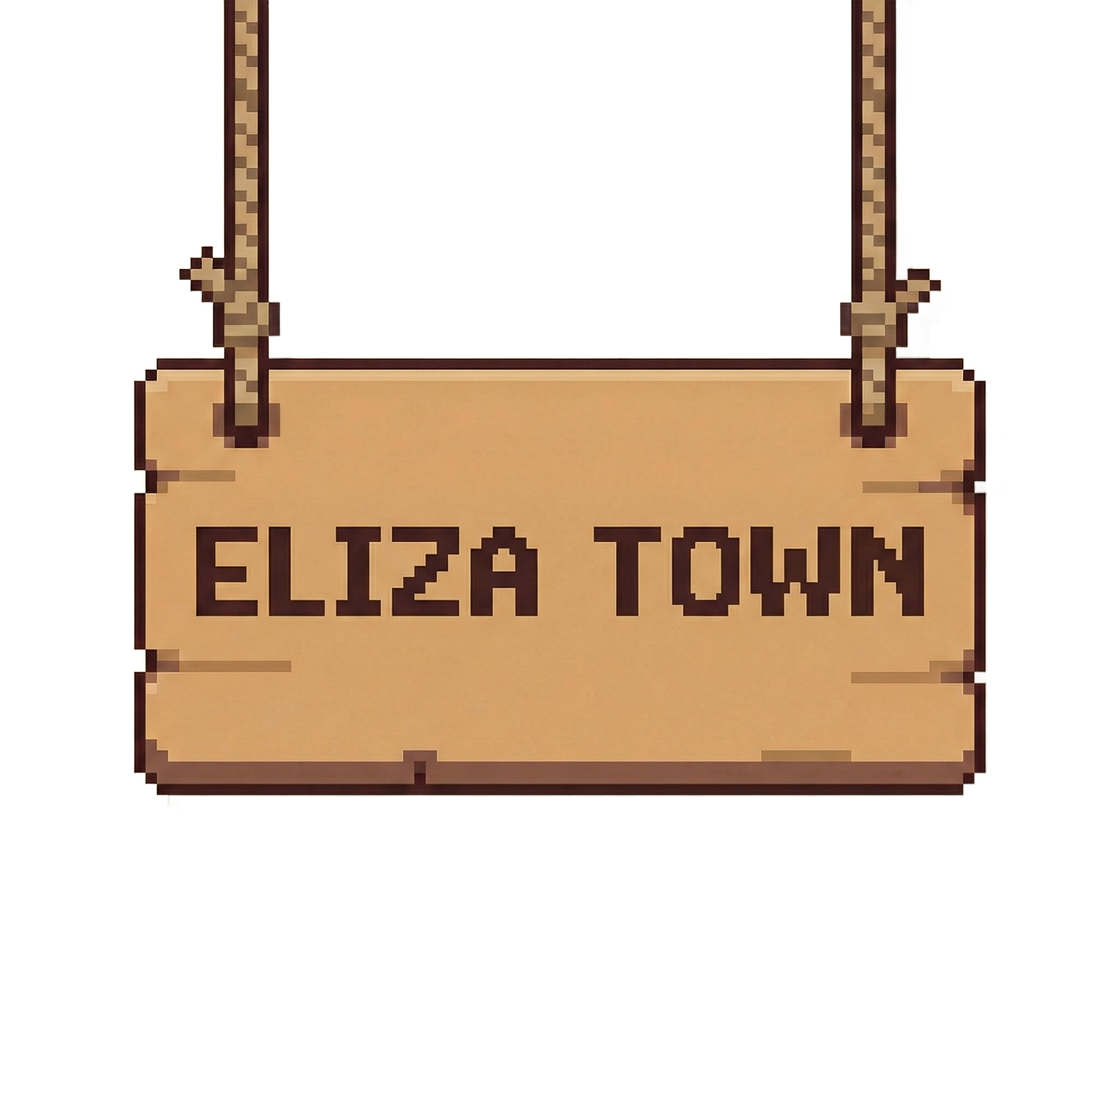
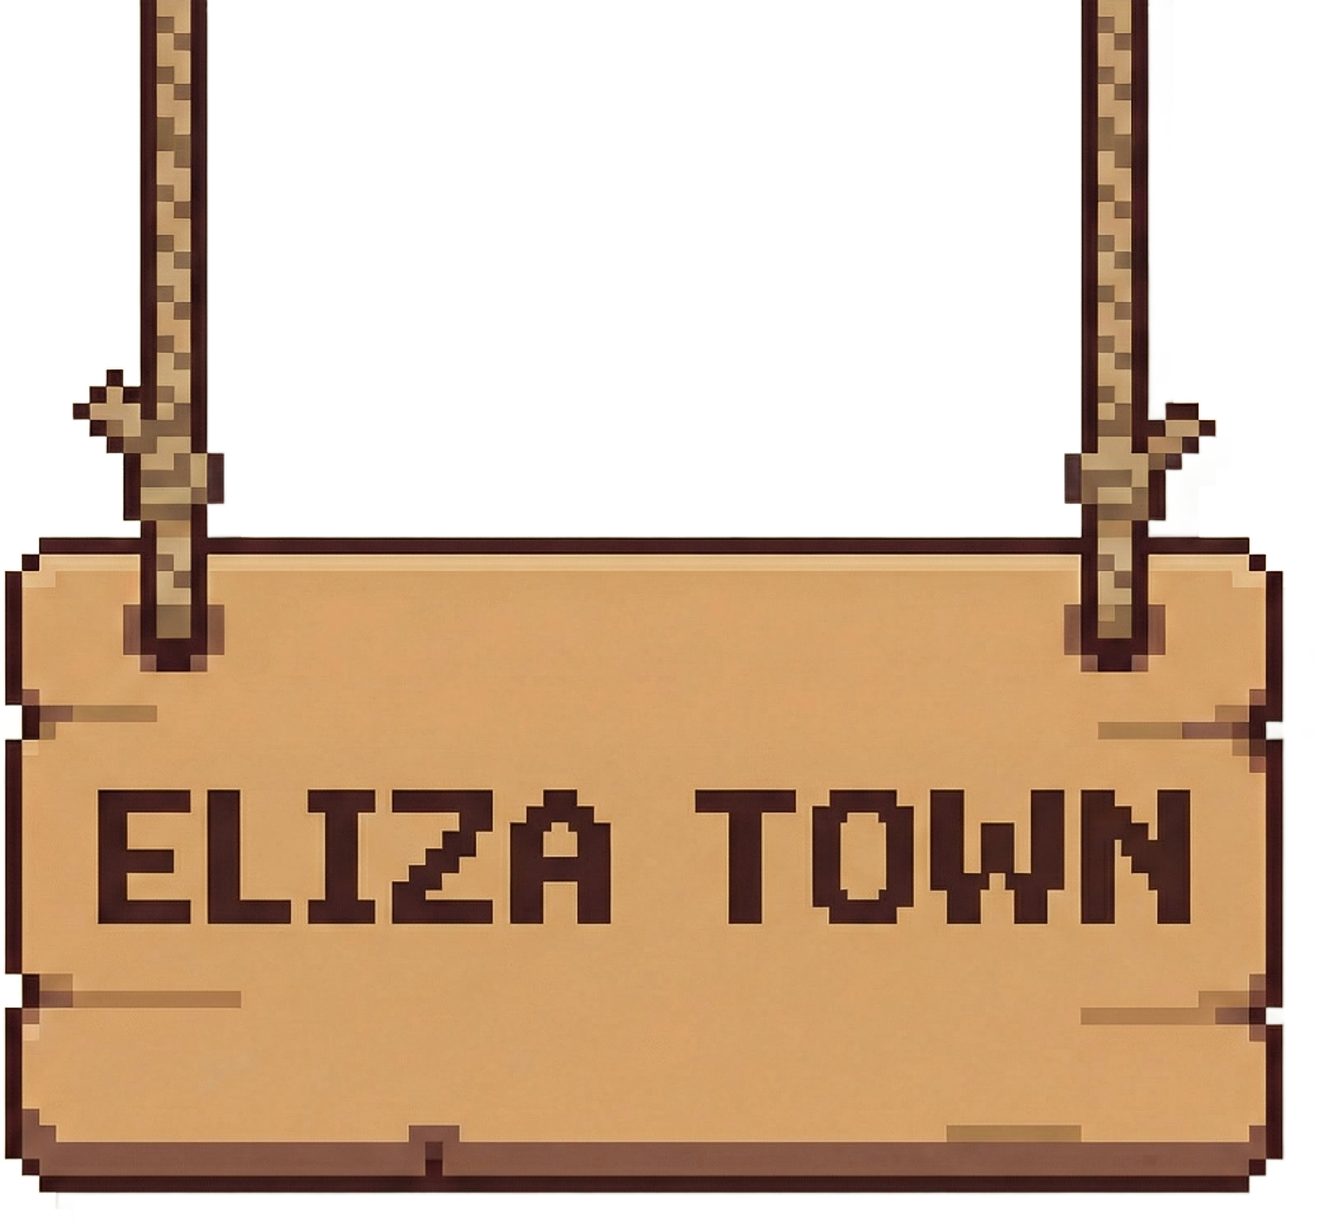
refactor(ui): refine Eliza Town map editor layout, styling, and scaling - Update 'StardewFrame' to support 9-slice rendering and full-height content. - Unify Header and Footer toolbar styling with 'inset' wooden slot aesthetic. - Increase Header height and adjust layout container sizes. - Fix Object

diff --git a/src/components/MapEditor.tsx b/src/components/MapEditor.tsx
@@ -2386,20 +2386,22 @@ const MapEditor = () => {
   return (
     <div className="w-screen h-screen overflow-hidden bg-[#fdf6d8] flex items-center justify-center font-display">
       <div 
-        className="relative select-none w-full h-full p-6 transition-all duration-300" // Made full width/height with padding
+        className="relative select-none p-4 transition-all duration-300 origin-center"
         style={{
+          transform: 'scale(1.3)', // Scale up entire UI by 30% for thicker borders
           display: 'grid',
           // Flexible columns: Sidebars take content width, Main takes remaining
           gridTemplateColumns: 'min-content 1fr min-content', 
-          // Flexible rows: Header/Footer take content height, Main takes remaining
-          gridTemplateRows: 'auto 1fr auto',
+          gridTemplateRows: 'auto 1fr auto', // Header takes content, Main fills, Footer takes content
           gridTemplateAreas: `
-            "sidebar-left header header"
+            ". header header"
             "sidebar-left main sidebar-right"
             "sidebar-left footer sidebar-right"
           `,
-          gap: '12px', // Kept gap for separation
+          gap: '10px', // Slightly reduced gap for scaled view
           imageRendering: 'pixelated',
+          width: '77%', // 100% / 1.3 to fit within viewport after scaling
+          height: '77%',
         }}
       >
         {/* --------------------------------------------------------------------------
@@ -2407,14 +2409,16 @@ const MapEditor = () => {
             Area: sidebar-left
             Responsive Width: min-content (based on children)
            -------------------------------------------------------------------------- */}
-        <div style={{ gridArea: 'sidebar-left' }} className="relative h-full pt-8 min-w-[160px]">
-            {/* Hanging Sign - Positioned absolutely on top of the frame */}
-            <div className="absolute top-0 left-1/2 -translate-x-1/2 z-20 pointer-events-none" style={{ marginTop: '-8px' }}>
-                 <HangingSign text="TILES" scale={0.9} />
+        <div style={{ gridArea: 'sidebar-left' }} className="relative h-full pt-10 min-w-[260px]">
+            {/* Hanging Sign - Positioned at screen edge */}
+            {/* Hanging Sign - Positioned at screen edge */}
+            <div className="fixed top-0 left-[120px] z-30 pointer-events-none" style={{ transform: 'translateX(-50%)' }}>
+                 <HangingSign scale={0.9} />
             </div>
             
-            <StardewFrame className="w-full h-full flex flex-col pt-8 pb-4 px-2" style={{ borderWidth: '12px' }}>
-               <div className="flex-1 min-h-0 overflow-y-auto pr-1 custom-scrollbar space-y-2">
+            <StardewFrame className="w-full h-full flex flex-col pt-8 pb-3 px-3" >
+               <div className="flex-1 min-h-0 w-full h-full overflow-hidden rounded-sm relative"> {/* overflow-hidden to clip content to frame */}
+                 <div className="absolute inset-0 overflow-y-auto overflow-x-hidden custom-scrollbar px-2 py-1"> {/* Scroll container with padding */}
                   {/* Tileset Selector */}
                   <div className="mb-2">
                     <select
@@ -2438,7 +2442,7 @@ const MapEditor = () => {
                              {stampCaptureMode ? 'Creating...' : 'New Stamp'}
                            </button>
                         </div>
-                        <div className="grid grid-cols-2 gap-1">
+                        <div className="grid grid-cols-3 gap-1">
                          {tilesetStampsForSet.map(stamp => (
                             <button 
                               key={stamp.id} 
@@ -2460,21 +2464,25 @@ const MapEditor = () => {
                              {objectCaptureMode ? 'Creating...' : 'New Object'}
                            </button>
                         </div>
-                         <div className="grid grid-cols-2 gap-2">
+                         <div className="grid grid-cols-3 gap-2">
                             {tilesetObjectsForSet.map(obj => {
                                const preview = getObjectPreviewData(obj);
                                return (
                                  <div key={obj.id} 
                                       onClick={() => selectObjectId(obj.id)}
-                                      className={`aspect-square bg-[#3b2a21] rounded border-2 relative cursor-pointer group ${activeObjectId === obj.id ? 'border-[#ffd93d] shadow-[0_0_8px_#ffd93d]' : 'border-[#5a4030] hover:border-[#8b6b4a]'}`}
+                                      className={`aspect-square bg-[#3b2a21] rounded border-2 relative cursor-pointer group flex items-center justify-center overflow-hidden ${activeObjectId === obj.id ? 'border-[#ffd93d] shadow-[0_0_8px_#ffd93d]' : 'border-[#5a4030] hover:border-[#8b6b4a]'}`}
                                  >
                                      <div 
-                                        className="absolute inset-2 bg-no-repeat bg-center"
+                                        className="bg-no-repeat"
                                         style={{
+                                            width: preview.width,
+                                            height: preview.height,
                                             backgroundImage: `url(${preview.imageUrl})`,
                                             backgroundPosition: preview.backgroundPosition,
                                             backgroundSize: preview.backgroundSize,
-                                            transform: 'scale(0.8)'
+                                            transform: `scale(${Math.min(1, 56 / Math.max(preview.width, preview.height))})`, // Scale to fit 56px box (better visibility)
+                                            transformOrigin: 'center',
+                                            imageRendering: 'pixelated'
                                         }}
                                      />
                                      <span className="absolute bottom-0 w-full text-center text-[8px] bg-black/50 text-white truncate px-0.5">{obj.name}</span>
@@ -2484,7 +2492,7 @@ const MapEditor = () => {
                          </div>
                     </div>
                   ) : (
-                    <div className="grid gap-[1px]" style={{ gridTemplateColumns: `repeat(3, 1fr)` }}>
+                    <div className="grid gap-[3px] auto-rows-auto" style={{ gridTemplateColumns: `repeat(3, 1fr)` }}>
                         {paletteTileIds.map(tileId => {
                            const { sx, sy } = getTilePos(tileId);
                            const isSelected = selectedTileId === tileId;
@@ -2510,6 +2518,7 @@ const MapEditor = () => {
                      </div>
                   )}
                </div>
+               </div>
             </StardewFrame>
         </div>
 
@@ -2518,18 +2527,18 @@ const MapEditor = () => {
             Area: header
             Responsive Height: auto (min 56px)
            -------------------------------------------------------------------------- */}
-        <div style={{ gridArea: 'header' }} className="flex h-14 gap-[12px]"> {/* Fixed height h-14 (56px) often good for headers, but flex helps */}
-             {/* Header Left: Tabs (Fills center) */}
-             <div className="flex-1 h-full"> 
-                 <StardewFrame className="flex items-center px-4 h-full" style={{ borderWidth: '12px' }}>
-                     <div className="flex items-center gap-1 justify-between w-full"> {/* justify-between to spread tabs if widely available */}
+         <div style={{ gridArea: 'header' }} className="flex h-[120px] gap-[10px] justify-end pr-[15%]"> {/* pr-15% shifts it left */}
+             {/* Header Left: Tabs (Fit to content) */}
+             <div className="h-full w-fit"> 
+                 <StardewFrame className="flex items-center px-4 h-full" >
+                     <div className="flex items-center gap-2">
                          {[
                            { label: 'TERRAIN', mode: 'terrain' as EditorMode, category: 'all' as TileCategoryFilter },
                            { label: 'PATHS', mode: 'paths' as EditorMode, category: 'paths' as TileCategoryFilter },
                            { label: 'PROPS', mode: 'prefabs' as EditorMode, category: null },
                            { label: 'BUILDINGS', mode: 'objects' as EditorMode, category: null }
                          ].map((tab) => (
-                            <div key={tab.label} className="relative flex-1 flex justify-center">
+                            <div key={tab.label} className="relative">
                                 <StardewTab
                                   label={tab.label}
                                   isActive={activeMode === tab.mode}
@@ -2546,9 +2555,9 @@ const MapEditor = () => {
              </div>
 
              {/* Header Right: Tools (Matches Sidebar Right width effectively) */}
-             <div className="h-full pl-1 w-[140px]"> {/* Kept 140px min width for tools to ensure they fit */}
-                 <StardewFrame className="flex items-center justify-center px-2 h-full w-full" style={{ borderWidth: '12px' }}>
-                     <div className="flex items-center gap-1.5 justify-around w-full">
+             <div className="h-full pl-1 w-[180px]">
+                 <StardewFrame className="flex items-center justify-center px-3 h-full w-full" >
+                      <div className="flex items-center gap-1.5 justify-center w-full">
                          {[
                           { id: 'brush', icon: '/ai-town/assets/ui/icons/brush.png' },
                           { id: 'eraser', icon: '/ai-town/assets/ui/icons/eraser.png' },
@@ -2563,8 +2572,8 @@ const MapEditor = () => {
                             className={`relative w-8 h-8 flex items-center justify-center transition-all duration-75 rounded-sm ${
                               (tool.id === 'stamp' && activeMode === 'prefabs') ||
                               activeTool === tool.id
-                                ? 'bg-[#e8d4b0] border-2 border-[#ffd93d] shadow-[0_0_8px_rgba(255,217,61,0.5)] scale-110 z-10'
-                                : 'bg-[#8b6b4a] border-2 border-[#5a3a2a] hover:bg-[#d4b078] hover:-translate-y-0.5'
+                                ? 'bg-[#e8d4b0] border-2 border-[#6d4c30] shadow-[inset_0_2px_4px_rgba(0,0,0,0.2)] scale-100 z-10'  // Active: Inset/Pressed
+                                : 'bg-[#e8d4b0] border-2 border-[#8b6b4a] shadow-[inset_0_-2px_0_rgba(0,0,0,0.2),0_2px_0_rgba(0,0,0,0.2)] hover:bg-[#ffe6b5] hover:-translate-y-0.5' // Inactive: Raised
                             }`}
                             title={tool.id.toUpperCase()}
                           >
@@ -2585,7 +2594,7 @@ const MapEditor = () => {
             Area: main
            -------------------------------------------------------------------------- */}
         <div style={{ gridArea: 'main' }} className="relative flex items-center justify-center min-h-0 min-w-0"> {/* min-h/w-0 prevents grid blowout */}
-            <div className="border-[6px] border-[#6d4c30] bg-[#d4c4a0] shadow-[inset_0_0_20px_rgba(0,0,0,0.2)] rounded overflow-hidden flex ring-4 ring-[#8b6b4a] w-full h-full"> {/* Full size of grid area */}
+            <div className="border-[6px] border-[#6d4c30] bg-[#d4c4a0] shadow-[inset_0_0_20px_rgba(0,0,0,0.2)] rounded overflow-hidden flex ring-4 ring-[#8b6b4a]" style={{ width: '90%', height: '90%', maxWidth: '800px', maxHeight: '600px' }}>
                 {renderCanvas()}
             </div>
         </div>
@@ -2595,9 +2604,9 @@ const MapEditor = () => {
             Area: footer
             Responsive Height: auto
            -------------------------------------------------------------------------- */}
-        <div style={{ gridArea: 'footer' }} className="flex justify-center h-16">
+        <div style={{ gridArea: 'footer' }} className="flex justify-center h-[100px]">
              <div className="w-full max-w-lg h-full"> {/* Allow it to grow max-w-lg */}
-                <StardewFrame className="w-full h-full flex items-center justify-center px-4" style={{ borderWidth: '12px' }}>
+                <StardewFrame className="w-full h-full flex items-center justify-center px-6" >
                      <div className="flex gap-1.5 align-middle">
                         {/* Render Quickbar Slots */}
                         {Array.from({ length: 8 }).map((_, index) => {
@@ -2643,10 +2652,10 @@ const MapEditor = () => {
                                     if(activeMode === 'objects' && objectId) selectObjectId(objectId);
                                     if(activeMode !== 'objects' && tileId !== null) selectTileId(tileId);
                                   }}
-                                  className={`relative w-10 h-10 border-2 rounded-sm active:scale-95 transition-all group overflow-hidden ${
+                                  className={`relative w-10 h-10 flex items-center justify-center transition-all duration-75 rounded-sm overflow-hidden group ${
                                       isActive
-                                      ? 'border-[#ffd93d] bg-[#fdf6d8] shadow-[0_0_8px_#ffd93d] z-10'
-                                      : 'border-[#8b6b4a] bg-[#f9eaca] hover:border-[#a88b6a]'
+                                      ? 'bg-[#e8d4b0] border-2 border-[#6d4c30] shadow-[inset_0_2px_4px_rgba(0,0,0,0.2)] scale-105 z-10' // Active: Inset
+                                      : 'bg-[#e8d4b0] border-2 border-[#8b6b4a] shadow-[inset_0_-2px_0_rgba(0,0,0,0.2),0_2px_0_rgba(0,0,0,0.2)] hover:bg-[#ffe6b5] hover:-translate-y-0.5' // Inactive: Raised (Matches Header Tools)
                                   }`}
                               >
                                   <span className={`absolute -top-1 -left-1 w-3 h-3 flex items-center justify-center text-[7px] font-bold border rounded-full z-20 ${
@@ -2673,9 +2682,9 @@ const MapEditor = () => {
             Area: sidebar-right
             Responsive Width: min-content or fixed
            -------------------------------------------------------------------------- */}
-        <div style={{ gridArea: 'sidebar-right', alignSelf: 'end' }} className="flex flex-col justify-end h-full pl-1 w-[140px]"> {/* Adjusted to fixed width to ensure consistency in alignment for tools part */}
+        <div style={{ gridArea: 'sidebar-right', alignSelf: 'end' }} className="flex flex-col justify-end h-full pl-2 w-[180px]">
 
-            <StardewFrame className="p-3 w-full" style={{ borderWidth: '12px' }}>
+            <StardewFrame className="p-4 w-full" >
                 <div className="flex flex-col gap-2">
                    <label className="flex items-center gap-2 cursor-pointer group hover:brightness-110 transition-all">
                       <StardewCheckbox 
@@ -2712,7 +2721,8 @@ const MapEditor = () => {
                         className="opacity-50 scale-90 origin-left"
                       />
                    </label>
-                </div>
+                 </div>
+
             </StardewFrame>
              <div className="mt-1 text-center">
                  <div className="text-[#8b6b4a] text-[8px] font-display font-bold">{MAP_WIDTH}x{MAP_HEIGHT}</div>

diff --git a/src/components/CreateCharacterDialog.tsx b/src/components/CreateCharacterDialog.tsx
@@ -216,25 +216,45 @@ export default function CreateCharacterDialog({ isOpen, onClose }: Props) {
         ) : (
             // Preview & Save
             <div className="space-y-4">
-                 <div className="bg-gray-900 border border-gray-700 rounded p-4 flex justify-center min-h-[160px] items-center">
-                    {generatedPreviewUrl ? (
-                         <div className="text-center">
-                            <p className="text-emerald-400 mb-2 font-bold text-sm">Preview Generated Sprite</p>
-                            <img 
-                                src={generatedPreviewUrl}
-                                className="w-24 h-32 mx-auto border border-emerald-500/30 bg-gray-800 object-contain"
-                                style={{ imageRendering: 'pixelated' }}
-                                alt="Generated Sprite"
-                            />
-                             <p className="text-xs text-gray-500 mt-2">Background Removed</p>
+                 <div className="grid grid-cols-2 gap-4">
+                    {/* Generated Result */}
+                    <div className="bg-gray-900 border border-gray-700 rounded p-4 flex flex-col items-center">
+                        <p className="text-emerald-400 mb-2 font-bold text-xs uppercase tracking-wide">Your Result</p>
+                        {generatedPreviewUrl ? (
+                             <>
+                                <img 
+                                    src={generatedPreviewUrl}
+                                    className="w-24 h-32 border border-emerald-500/30 bg-gray-800 object-contain"
+                                    style={{ imageRendering: 'pixelated' }}
+                                    alt="Generated Sprite"
+                                />
+                                 <p className="text-xs text-gray-500 mt-2">Background Removed</p>
+                             </>
+                        ) : (
+                            <div className="flex flex-col items-center justify-center h-32">
+                                <div className="animate-spin rounded-full h-8 w-8 border-b-2 border-emerald-500 mb-2"></div>
+                                <p className="text-xs text-gray-400">Loading...</p>
+                            </div>
+                        )}
+                    </div>
+
+                    {/* Standard Reference */}
+                    <div className="bg-gray-900 border border-gray-700 rounded p-4 flex flex-col items-center opacity-70 hover:opacity-100 transition-opacity">
+                        <p className="text-gray-400 mb-2 font-bold text-xs uppercase tracking-wide">Standard Format</p>
+                        <img 
+                            src="/assets/characters/char-f1.png"
+                            className="w-24 h-32 border border-gray-600 bg-gray-800 object-contain"
+                            style={{ imageRendering: 'pixelated' }}
+                            alt="Standard Reference"
+                        />
+                        <div className="text-[10px] text-gray-500 mt-2 text-center leading-tight">
+                            <p>Row 1: Front</p>
+                            <p>Row 2: Left</p>
+                            <p>Row 3: Right</p>
+                            <p>Row 4: Back</p>
                         </div>
-                    ) : (
-                        <div className="flex flex-col items-center justify-center p-4">
-                            <div className="animate-spin rounded-full h-8 w-8 border-b-2 border-emerald-500 mb-2"></div>
-                            <p className="text-xs text-gray-400">Loading preview...</p>
-                        </div>
-                    )}
-                </div>
+                    </div>
+                 </div>
                 
                 {/* ... remaining inputs ... */}
                 <div>
@@ -243,23 +263,39 @@ export default function CreateCharacterDialog({ isOpen, onClose }: Props) {
                         value={displayName}
                         onChange={(e) => setDisplayName(e.target.value)}
                         placeholder="My Character"
-                        className="w-full bg-gray-900 border border-gray-700 rounded p-2 text-sm"
+                        className="w-full bg-gray-900 border border-gray-700 rounded p-2 text-sm focus:border-emerald-500 outline-none"
                      />
                 </div>
+
                 {/* ... buttons ... */}
                 <div className="flex gap-2">
                      <button
                         onClick={() => setGeneratedStorageId(null)} // Back to edit
-                        className="flex-1 border border-gray-600 hover:bg-gray-800 text-white py-2 rounded"
+                        className="px-4 border border-gray-600 hover:bg-gray-800 text-white py-2 rounded text-sm"
                      >
                         Back
                      </button>
                      <button
+                        onClick={handleGenerate} // Regenerate
+                        disabled={isGenerating}
+                        className="flex-1 bg-indigo-600 hover:bg-indigo-500 disabled:opacity-50 text-white font-bold py-2 rounded text-sm flex items-center justify-center gap-2"
+                     >
+                        {isGenerating ? (
+                            <span className="animate-spin">⟳</span>
+                        ) : (
+                            <span>⟳ Regenerate</span>
+                        )}
+                     </button>
+                     <button
                         onClick={handleSave}
-                        className="flex-1 bg-emerald-600 hover:bg-emerald-500 text-white font-bold py-2 rounded"
+                        className="flex-1 bg-emerald-600 hover:bg-emerald-500 text-white font-bold py-2 rounded text-sm"
                      >
                         Save Character
                      </button>
+                </div>
+
+                <div className="text-xs text-gray-500 bg-gray-900/50 p-2 rounded border border-gray-700/50">
+                    <p><strong>Check:</strong> Your sprite should have <strong>4 rows × 3 columns = 12 frames</strong>. Directions: Front, Left, Right, Back. If not, Regenerate.</p>
                 </div>
             </div>
         )}

diff --git a/src/components/ui/stardew/HangingSign.tsx b/src/components/ui/stardew/HangingSign.tsx
@@ -1,37 +1,27 @@
 import React from 'react';
 
 interface HangingSignProps {
-  text?: string;
   className?: string;
   scale?: number;
 }
 
 const SIGN_ASSET = '/ai-town/assets/ui/stardew/hanging_sign.png';
 
-export const HangingSign: React.FC<HangingSignProps> = ({ text = "TILES", className = '', scale = 1 }) => {
+export const HangingSign: React.FC<HangingSignProps> = ({ className = '', scale = 1 }) => {
   return (
     <div 
       className={`relative inline-block ${className}`}
       style={{
-        width: '180px', // Approximate width based on asset aspect ratio
-        height: '90px',
+        width: '220px', // Increased for cropped/scaled asset
+        height: '140px',
         backgroundImage: `url(${SIGN_ASSET})`,
         backgroundSize: 'contain',
         backgroundRepeat: 'no-repeat',
-        backgroundPosition: 'center',
+        backgroundPosition: 'center bottom',
         transform: `scale(${scale})`,
         transformOrigin: 'top center',
         zIndex: 20
       }}
-    >
-      <div className="absolute inset-0 flex items-center justify-center pt-4">
-        <span 
-          className="font-display font-bold text-[#3e2723] text-xl tracking-widest uppercase drop-shadow-[0_1px_0_rgba(255,255,255,0.3)]"
-          style={{ fontFamily: '"Press Start 2P", cursive, sans-serif' }} // Fallback font
-        >
-          {text}
-        </span>
-      </div>
-    </div>
+    />
   );
 };

diff --git a/src/components/ui/stardew/StardewFrame.tsx b/src/components/ui/stardew/StardewFrame.tsx
@@ -12,11 +12,12 @@ const ASSET_PATH = '/ai-town/assets/ui/stardew/wood_frame_9slice.png';
 export const StardewFrame: React.FC<StardewFrameProps> = ({ children, className = '', title, style }) => {
   return (
     <div
-      className={`relative p-4 ${className}`}
+      className={`relative ${className}`}
       style={{
-        border: '18px solid transparent', // Adjust width of the border slice
+        border: '28px solid transparent', // Rendered border thickness
         borderImageSource: `url(${ASSET_PATH})`,
-        borderImageSlice: '33% fill', // 9-slice: 1/3 cut usually works for these 3x3 grids
+        borderImageSlice: '350 fill', // ~350px corners from 2048px source image (17%)
+        borderImageWidth: '28px', // Display width
         borderImageRepeat: 'stretch',
         imageRendering: 'pixelated',
         ...style,
@@ -29,7 +30,7 @@ export const StardewFrame: React.FC<StardewFrameProps> = ({ children, className 
           </span>
         </div>
       )}
-      <div className="relative z-0">
+      <div className="relative z-0 w-full h-full">
         {children}
       </div>
     </div>

diff --git a/convex/characterGeneration.ts b/convex/characterGeneration.ts
@@ -76,7 +76,8 @@ export const generate = action({
         5. Maintain balanced character proportions.
         6. Keep the image sharp and clear, meeting professional game art standards.
         7. Layout: Strict 4 rows (Front, Left, Right, Back) x 3 columns (Stand, Walk, Walk).
-        8. Output: ONLY the sprite sheet image.` }
+        8. Total frames: Exactly 12 frames (4 rows × 3 columns). No more, no less.
+        9. Output: ONLY the sprite sheet image.` }
     ];
 
     // If a reference image is provided, add it to the generation request (Multimodal)
